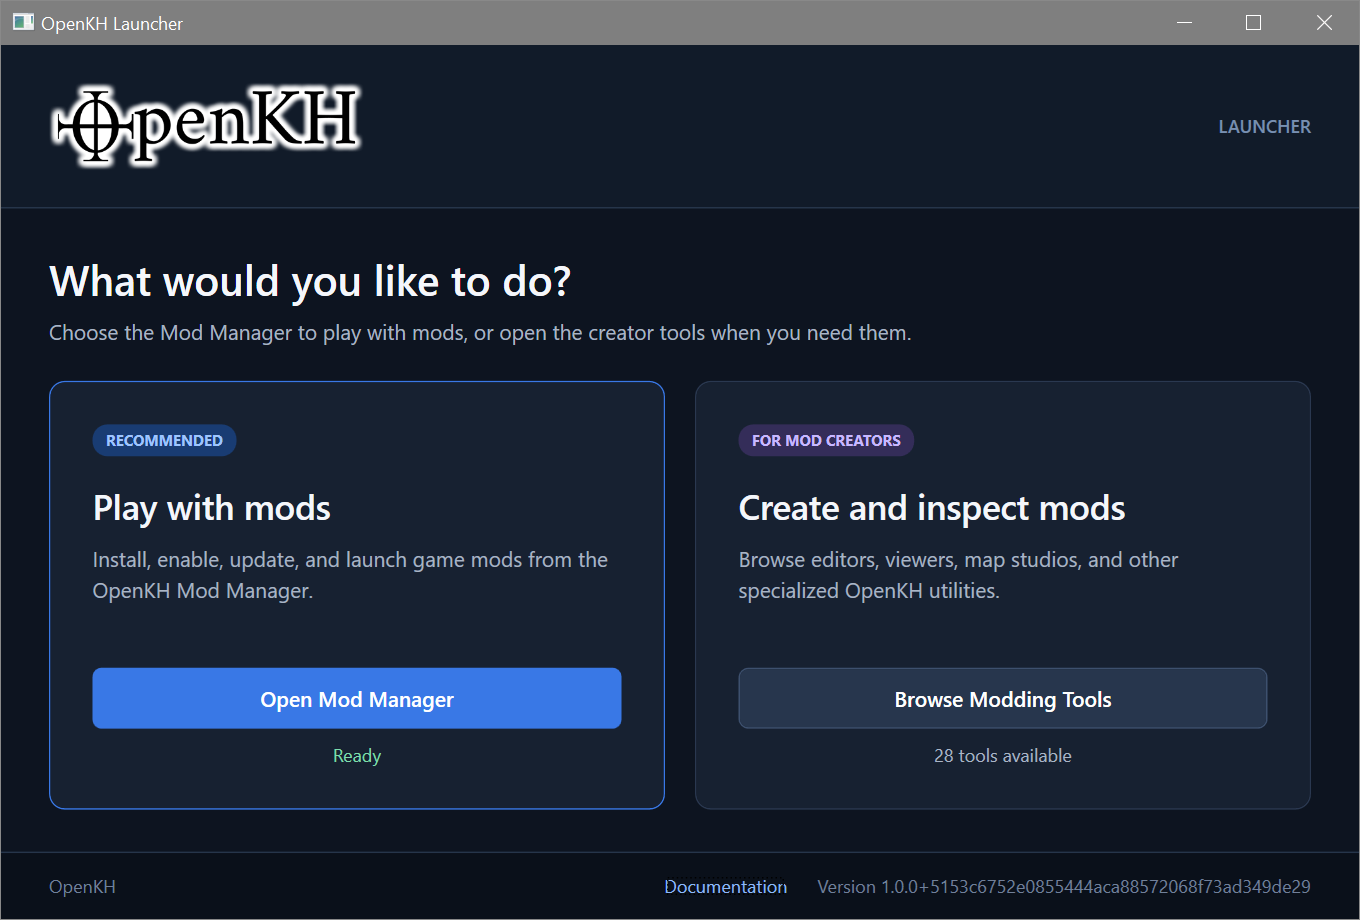
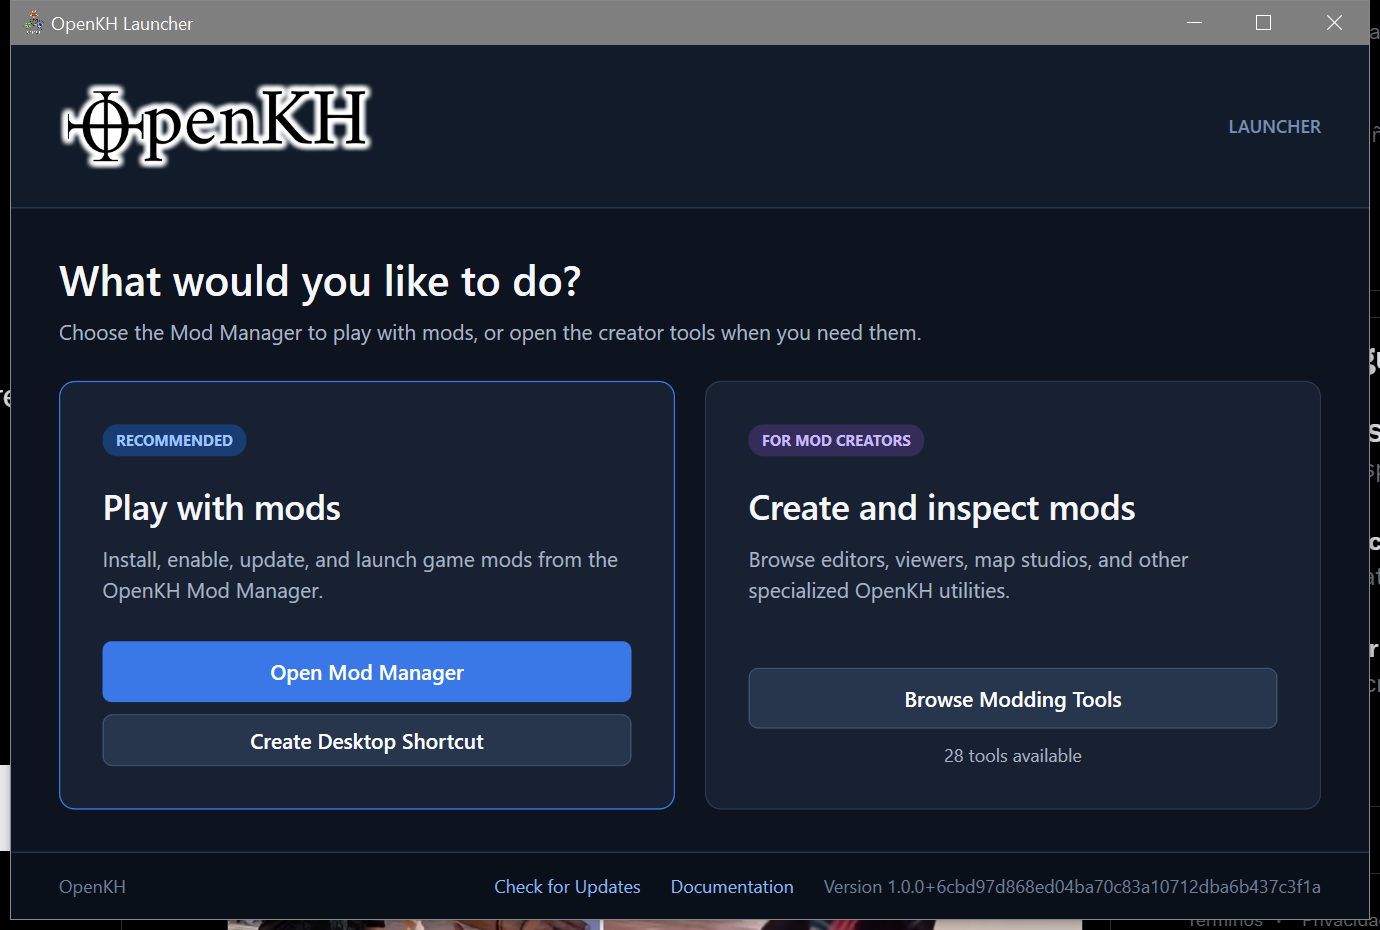
Preserve updates and shortcuts in launcher layout

diff --git a/OpenKh.Tools.Launcher/MainWindow.xaml b/OpenKh.Tools.Launcher/MainWindow.xaml
@@ -126,7 +126,8 @@
                             </StackPanel>
                             <StackPanel Grid.Row="2">
                                 <Button x:Name="LaunchModManagerButton" Style="{StaticResource PrimaryButton}" Content="Open Mod Manager" Click="LaunchModManager_Click"/>
-                                <TextBlock x:Name="ModManagerStatusText" Margin="0,9,0,0" Text="Ready" Foreground="#7FDCAD" FontSize="12" TextAlignment="Center"/>
+                                <Button x:Name="CreateShortcutButton" Margin="0,8,0,0" Style="{StaticResource SecondaryButton}" Padding="15,7" Content="Create Desktop Shortcut" Click="CreateShortcut_Click"/>
+                                <TextBlock x:Name="ModManagerStatusText" Margin="0,9,0,0" Foreground="#EE8989" FontSize="12" TextAlignment="Center" Visibility="Collapsed"/>
                             </StackPanel>
                         </Grid>
                     </Border>
@@ -230,6 +231,7 @@
             <Grid>
                 <TextBlock Text="OpenKH" Foreground="#718099" FontSize="12"/>
                 <StackPanel HorizontalAlignment="Right" Orientation="Horizontal">
+                    <Button x:Name="CheckForUpdatesButton" Padding="0" Margin="0,0,20,0" Background="Transparent" BorderThickness="0" Foreground="#8FB9F8" Content="Check for Updates" Cursor="Hand" Click="CheckForUpdates_Click"/>
                     <Button Padding="0" Margin="0,0,20,0" Background="Transparent" BorderThickness="0" Foreground="#8FB9F8" Content="Documentation" Cursor="Hand" Click="OpenDocumentation_Click"/>
                     <TextBlock x:Name="VersionText" Foreground="#718099" FontSize="12" VerticalAlignment="Center"/>
                 </StackPanel>

diff --git a/OpenKh.Tools.Launcher/LegacyInstallationMigration.cs b/OpenKh.Tools.Launcher/LegacyInstallationMigration.cs
@@ -61,14 +61,19 @@ internal static class LegacyInstallationMigration
 
         try
         {
-            Process.Start(new ProcessStartInfo
+            var startInfo = new ProcessStartInfo
             {
                 FileName = modManagerPath,
                 WorkingDirectory = Path.GetDirectoryName(modManagerPath),
                 UseShellExecute = true,
-            });
+            };
 
-            ScheduleLegacyFileCleanup(installationDirectory);
+            foreach (var argument in Environment.GetCommandLineArgs().Skip(1))
+                startInfo.ArgumentList.Add(argument);
+
+            Process.Start(startInfo);
+
+            ScheduleCleanupIfNeeded(installationDirectory);
         }
         catch (Exception exception)
         {
@@ -83,28 +88,28 @@ internal static class LegacyInstallationMigration
         return true;
     }
 
-    public static void RemoveCompatibilityBootstrap()
+    public static void ScheduleCleanupIfNeeded()
     {
-        var compatibilityPath = Path.Combine(AppContext.BaseDirectory, CompatibilityExecutableName);
-        if (!File.Exists(compatibilityPath)
-            || string.Equals(Environment.ProcessPath, compatibilityPath, StringComparison.OrdinalIgnoreCase))
-        {
-            return;
-        }
-
-        try
-        {
-            File.SetAttributes(compatibilityPath, FileAttributes.Normal);
-            File.Delete(compatibilityPath);
-        }
-        catch
-        {
-            // A future update can remove the compatibility bootstrap.
-        }
+        var installationDirectory = AppContext.BaseDirectory.TrimEnd(
+            Path.DirectorySeparatorChar,
+            Path.AltDirectorySeparatorChar
+        );
+        ScheduleCleanupIfNeeded(installationDirectory);
     }
 
-    private static void ScheduleLegacyFileCleanup(string installationDirectory)
+    private static void ScheduleCleanupIfNeeded(string installationDirectory)
     {
+        var legacyFiles = GetLegacyApplicationFiles(installationDirectory)
+            .Where(File.Exists)
+            .ToArray();
+        var legacyDirectories = GetLegacyResourceDirectories(installationDirectory)
+            .Select(directoryName => Path.Combine(installationDirectory, directoryName))
+            .Where(Directory.Exists)
+            .ToArray();
+
+        if (legacyFiles.Length == 0 && legacyDirectories.Length == 0)
+            return;
+
         var batchPath = Path.Combine(Path.GetTempPath(), $"openkh-migrate-{Guid.NewGuid():N}.bat");
         var batch = new StringBuilder();
 
@@ -117,18 +122,16 @@ internal static class LegacyInstallationMigration
         batch.AppendLine("    goto wait_for_launcher");
         batch.AppendLine(")");
 
-        foreach (var filePath in GetLegacyApplicationFiles(installationDirectory))
+        foreach (var filePath in legacyFiles)
         {
             var escapedPath = EscapeBatchPath(filePath);
             batch.AppendLine($"attrib -h -r {escapedPath} 2>nul");
             batch.AppendLine($"del /f /q {escapedPath} 2>nul");
         }
 
-        foreach (var directoryName in GetLegacyResourceDirectories(installationDirectory))
+        foreach (var directoryPath in legacyDirectories)
         {
-            var directoryPath = Path.Combine(installationDirectory, directoryName);
-            if (Directory.Exists(directoryPath))
-                batch.AppendLine($"rmdir /s /q {EscapeBatchPath(directoryPath)} 2>nul");
+            batch.AppendLine($"rmdir /s /q {EscapeBatchPath(directoryPath)} 2>nul");
         }
 
         batch.AppendLine("del /f /q \"%~f0\"");
@@ -154,14 +157,13 @@ internal static class LegacyInstallationMigration
         var legacyFileNames = File.ReadAllLines(manifestPath)
             .Where(fileName => !string.IsNullOrWhiteSpace(fileName))
             .ToHashSet(StringComparer.OrdinalIgnoreCase);
-        legacyFileNames.Add(CompatibilityExecutableName);
-
         return Directory.EnumerateFiles(installationDirectory, "*", SearchOption.TopDirectoryOnly)
             .Where(filePath =>
                 legacyFileNames.Contains(Path.GetFileName(filePath))
                 || Path.GetFileName(filePath).StartsWith("OpenKh.Tools.ModsManager.", StringComparison.OrdinalIgnoreCase)
             )
-            .Where(filePath => !Path.GetFileName(filePath).Equals(LauncherExecutableName, StringComparison.OrdinalIgnoreCase));
+            .Where(filePath => !Path.GetFileName(filePath).Equals(LauncherExecutableName, StringComparison.OrdinalIgnoreCase))
+            .Where(filePath => !Path.GetFileName(filePath).Equals(CompatibilityExecutableName, StringComparison.OrdinalIgnoreCase));
     }
 
     private static IEnumerable<string> GetLegacyResourceDirectories(string installationDirectory)
@@ -175,7 +177,8 @@ internal static class LegacyInstallationMigration
     private static bool IsLegacyApplicationFile(string filePath)
     {
         var fileName = Path.GetFileName(filePath);
-        if (fileName.Equals(LauncherExecutableName, StringComparison.OrdinalIgnoreCase))
+        if (fileName.Equals(LauncherExecutableName, StringComparison.OrdinalIgnoreCase)
+            || fileName.Equals(CompatibilityExecutableName, StringComparison.OrdinalIgnoreCase))
             return false;
 
         if (Path.GetExtension(fileName).Equals(".dll", StringComparison.OrdinalIgnoreCase))

diff --git a/OpenKh.Tools.Launcher/MainWindow.xaml.cs b/OpenKh.Tools.Launcher/MainWindow.xaml.cs
@@ -53,6 +53,7 @@ public partial class MainWindow : Window
         }
     }
     private string AdvancedToolsPath => Path.Combine(BaseDirectory, AdvancedToolsDirectory);
+    private string CompatibilityModManagerPath => Path.Combine(BaseDirectory, ModManagerExecutable);
 
     public MainWindow()
     {
@@ -66,10 +67,10 @@ public partial class MainWindow : Window
 
         var modManagerAvailable = File.Exists(ModManagerPath);
         LaunchModManagerButton.IsEnabled = modManagerAvailable;
-        ModManagerStatusText.Text = modManagerAvailable ? "Ready" : "Mod Manager was not found";
-        ModManagerStatusText.Foreground = modManagerAvailable
-            ? new System.Windows.Media.SolidColorBrush(System.Windows.Media.Color.FromRgb(127, 220, 173))
-            : new System.Windows.Media.SolidColorBrush(System.Windows.Media.Color.FromRgb(238, 137, 137));
+        CheckForUpdatesButton.IsEnabled = modManagerAvailable;
+        CreateShortcutButton.IsEnabled = File.Exists(CompatibilityModManagerPath);
+        ModManagerStatusText.Text = modManagerAvailable ? string.Empty : "Mod Manager was not found";
+        ModManagerStatusText.Visibility = modManagerAvailable ? Visibility.Collapsed : Visibility.Visible;
 
         LoadTools();
     }
@@ -142,6 +143,32 @@ public partial class MainWindow : Window
 
     private void LaunchModManager_Click(object sender, RoutedEventArgs e) => Launch(ModManagerPath);
 
+    private void CheckForUpdates_Click(object sender, RoutedEventArgs e) =>
+        Launch(ModManagerPath, "--check-for-updates");
+
+    private void CreateShortcut_Click(object sender, RoutedEventArgs e)
+    {
+        try
+        {
+            var shortcutPath = DesktopShortcutService.CreateModManagerShortcut(CompatibilityModManagerPath);
+            MessageBox.Show(
+                $"The OpenKH Mod Manager shortcut was created on your desktop.\n\n{shortcutPath}",
+                "Shortcut created",
+                MessageBoxButton.OK,
+                MessageBoxImage.Information
+            );
+        }
+        catch (Exception exception)
+        {
+            MessageBox.Show(
+                $"OpenKH could not create the desktop shortcut.\n\n{exception.Message}",
+                "Unable to create shortcut",
+                MessageBoxButton.OK,
+                MessageBoxImage.Error
+            );
+        }
+    }
+
     private void ShowTools_Click(object sender, RoutedEventArgs e)
     {
         LoadTools();
@@ -183,7 +210,7 @@ public partial class MainWindow : Window
 
     private void OpenDocumentation_Click(object sender, RoutedEventArgs e) => Launch("https://openkh.dev/");
 
-    private static void Launch(string target)
+    private static void Launch(string target, params string[] arguments)
     {
         try
         {
@@ -191,12 +218,17 @@ public partial class MainWindow : Window
                 ? Path.GetDirectoryName(target)
                 : AppContext.BaseDirectory;
 
-            Process.Start(new ProcessStartInfo
+            var startInfo = new ProcessStartInfo
             {
                 FileName = target,
                 WorkingDirectory = workingDirectory,
                 UseShellExecute = true,
-            });
+            };
+
+            foreach (var argument in arguments)
+                startInfo.ArgumentList.Add(argument);
+
+            Process.Start(startInfo);
         }
         catch (Exception exception)
         {

diff --git a/OpenKh.Tools.Launcher/DesktopShortcutService.cs b/OpenKh.Tools.Launcher/DesktopShortcutService.cs
@@ -1,0 +1,46 @@
+using System.IO;
+using System.Runtime.InteropServices;
+
+namespace OpenKh.Tools.Launcher;
+
+internal static class DesktopShortcutService
+{
+    public static string CreateModManagerShortcut(string targetPath, string? shortcutDirectory = null)
+    {
+        shortcutDirectory ??= Environment.GetFolderPath(Environment.SpecialFolder.DesktopDirectory);
+        var shortcutPath = Path.Combine(shortcutDirectory, "OpenKH Mod Manager.lnk");
+        var shellType = Type.GetTypeFromProgID("WScript.Shell")
+            ?? throw new InvalidOperationException("Windows Script Host is not available.");
+        object? shell = null;
+        object? shortcut = null;
+
+        try
+        {
+            shell = Activator.CreateInstance(shellType)
+                ?? throw new InvalidOperationException("Windows Script Host could not be started.");
+            shortcut = shellType.InvokeMember(
+                "CreateShortcut",
+                System.Reflection.BindingFlags.InvokeMethod,
+                null,
+                shell,
+                new object[] { shortcutPath }
+            ) ?? throw new InvalidOperationException("The shortcut could not be created.");
+
+            var shortcutType = shortcut.GetType();
+            shortcutType.InvokeMember("TargetPath", System.Reflection.BindingFlags.SetProperty, null, shortcut, new object[] { targetPath });
+            shortcutType.InvokeMember("WorkingDirectory", System.Reflection.BindingFlags.SetProperty, null, shortcut, new object[] { Path.GetDirectoryName(targetPath)! });
+            shortcutType.InvokeMember("Description", System.Reflection.BindingFlags.SetProperty, null, shortcut, new object[] { "Open OpenKH Mod Manager" });
+            shortcutType.InvokeMember("IconLocation", System.Reflection.BindingFlags.SetProperty, null, shortcut, new object[] { $"{targetPath},0" });
+            shortcutType.InvokeMember("Save", System.Reflection.BindingFlags.InvokeMethod, null, shortcut, null);
+        }
+        finally
+        {
+            if (shortcut != null && Marshal.IsComObject(shortcut))
+                Marshal.FinalReleaseComObject(shortcut);
+            if (shell != null && Marshal.IsComObject(shell))
+                Marshal.FinalReleaseComObject(shell);
+        }
+
+        return shortcutPath;
+    }
+}

diff --git a/OpenKh.Tools.ModsManager/Services/OpenkhUpdateProceederService.cs b/OpenKh.Tools.ModsManager/Services/OpenkhUpdateProceederService.cs
@@ -51,15 +51,10 @@ namespace OpenKh.Tools.ModsManager.Services
             var modManagerExecutable = File.Exists(packagedModManagerExecutable)
                 ? Path.Combine(copyTo, "Apps", "ModManager", "OpenKh.Tools.ModsManager.exe")
                 : OpenkhInstallation.GetModManagerExecutable(copyTo);
-            var compatibilityExecutable = File.Exists(packagedModManagerExecutable)
-                ? Path.Combine(copyTo, "OpenKh.Tools.ModsManager.exe")
-                : null;
-
             await CreateBatchFileAsync(
                 tempBatFile: tempBatFile,
                 copyFrom: copyFrom,
                 copyTo: copyTo,
-                deleteAfterCopy: compatibilityExecutable,
                 execAfter: $"start \"\" \"{modManagerExecutable}\""
             );
 
@@ -97,7 +92,6 @@ namespace OpenKh.Tools.ModsManager.Services
             string tempBatFile,
             string copyFrom,
             string copyTo,
-            string deleteAfterCopy,
             string execAfter
         )
         {
@@ -106,11 +100,6 @@ namespace OpenKh.Tools.ModsManager.Services
             bat.WriteLine($"taskkill /im OpenKh.Tools.ModsManager.exe");
             bat.WriteLine($"robocopy  {EscapeRobocopyArg(copyFrom)} {EscapeRobocopyArg(copyTo)} /e");
             bat.WriteLine($"if errorlevel 8 pause");
-            if (!string.IsNullOrWhiteSpace(deleteAfterCopy))
-            {
-                bat.WriteLine($"attrib -h -r {EscapeRobocopyArg(deleteAfterCopy)}");
-                bat.WriteLine($"del /f /q {EscapeRobocopyArg(deleteAfterCopy)}");
-            }
             bat.WriteLine($"{execAfter}");
             bat.WriteLine($"rd /s /q \"{copyFrom}\"");
             bat.WriteLine($"del %0");

diff --git a/OpenKh.Tools.ModsManager/Views/MainWindow.xaml.cs b/OpenKh.Tools.ModsManager/Views/MainWindow.xaml.cs
@@ -1,5 +1,6 @@
 using OpenKh.Tools.ModsManager.ViewModels;
 using System;
+using System.Linq;
 using System.Windows;
 
 namespace OpenKh.Tools.ModsManager.Views
@@ -12,7 +13,14 @@ namespace OpenKh.Tools.ModsManager.Views
         public MainWindow()
         {
             InitializeComponent();
-            DataContext = new MainViewModel();
+            var viewModel = new MainViewModel();
+            DataContext = viewModel;
+
+            if (Environment.GetCommandLineArgs().Any(argument =>
+                argument.Equals("--check-for-updates", StringComparison.OrdinalIgnoreCase)))
+            {
+                Loaded += (_, _) => viewModel.CheckOpenkhUpdateCommand.Execute(null);
+            }
         }
 
         protected override void OnClosed(EventArgs e)

diff --git a/OpenKh.Tools.Launcher/App.xaml.cs b/OpenKh.Tools.Launcher/App.xaml.cs
@@ -14,7 +14,7 @@ public partial class App : Application
             return;
         }
 
-        LegacyInstallationMigration.RemoveCompatibilityBootstrap();
+        LegacyInstallationMigration.ScheduleCleanupIfNeeded();
         new MainWindow().Show();
     }
 }

diff --git a/README.md b/README.md
@@ -18,9 +18,9 @@ New builds of OpenKH are automatically generated every time one of the contribut
 
 All the builds from `master` and from pull requestes are generated from [GitHub Actions](https://github.com/OpenKh/OpenKh/actions).
 
-After extracting a release, open `OpenKh.Launcher.exe`. The launcher presents the Mod Manager as the recommended option for installing and playing mods, while editors, converters, and command-line utilities for mod creators are kept in the separate `AdvancedTools` section. Application dependencies are organized under `Apps`, leaving the release root with a single executable entry point.
+After extracting a release, open `OpenKh.Launcher.exe`. The launcher presents the Mod Manager as the recommended option for installing and playing mods, while editors, converters, and command-line utilities for mod creators are kept in the separate `AdvancedTools` section. Application dependencies are organized under `Apps`, leaving the release root with a single visible executable entry point. The launcher can also check for OpenKH updates and create a Mod Manager desktop shortcut.
 
-Existing installations are migrated to the organized layout during their first update. Mod Manager settings, presets, mod lists, and user content remain available while obsolete application files are removed from the release root.
+Existing installations are migrated to the organized layout when the updated launcher or an existing Mod Manager shortcut is opened. Mod Manager settings, presets, mod lists, and user content remain available while obsolete application files are removed from the release root. A hidden compatibility entry point remains in the release root so existing shortcuts continue to work after migration and future updates.
 
 OpenKH tools require the installation of the [.NET 8.0 Runtime](https://dotnet.microsoft.com/download/dotnet/8.0). All the UI tools are designed to work on Windows, while command line tools will work on any operating system.
 
